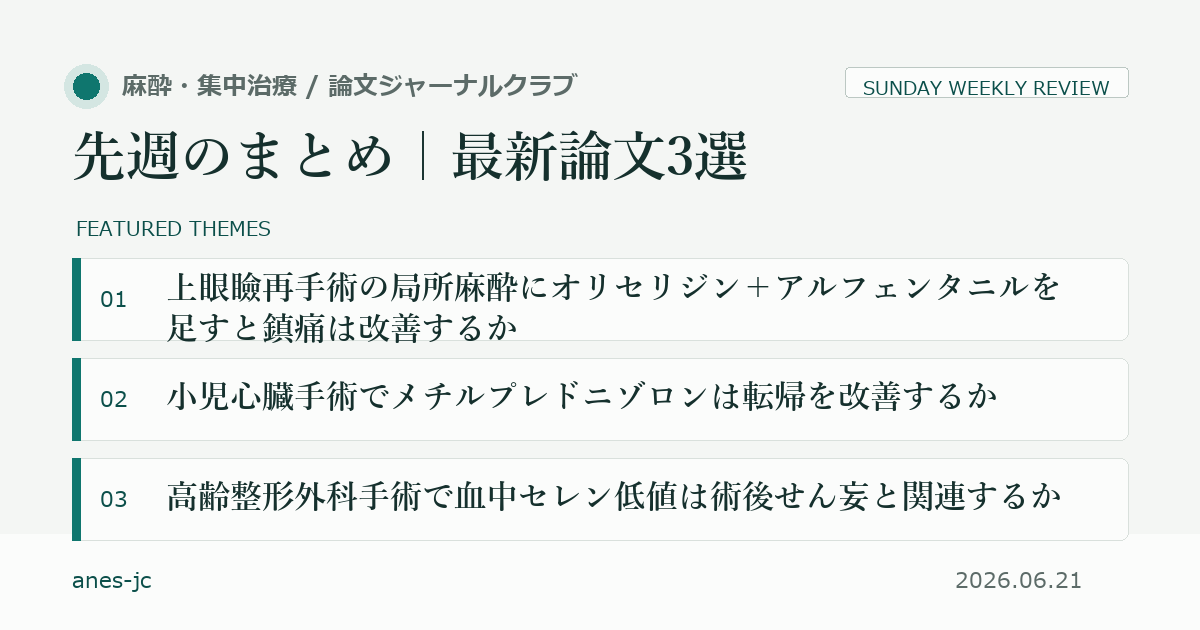
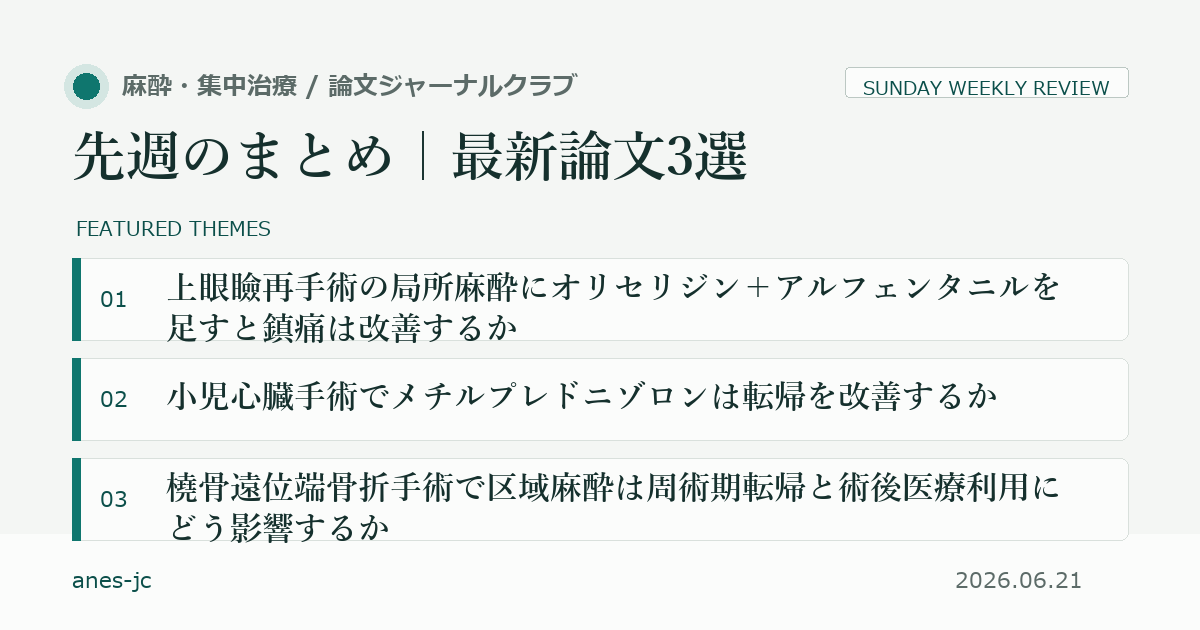
Exclude preprints from Sunday articles

Changed region(s): [[0.1233, 0.754, 0.8942, 0.8746]]

diff --git a/articles/latest-papers-2026-06-21.html b/articles/latest-papers-2026-06-21.html
@@ -49,24 +49,24 @@
 <section class="sec"><div class="sechd"><h2>最新論文3選</h2></div><article class="paper-card">
       <h2>上眼瞼再手術の局所麻酔にオリセリジン＋アルフェンタニルを足すと鎮痛は改善するか</h2>
       <p class="design">無作為化比較試験</p>
-      <p class="summary"><span>抄録の日本語要約</span>上眼瞼形成の再手術患者を対象に、多モード意識下鎮痛としてオリセリジン、アルフェンタニル、局所麻酔を組み合わせる方法の鎮痛効果と安全性を、多施設RCTで比較しています。</p>
+      <p class="summary"><span>抄録の日本語要約</span>上眼瞼形成の再手術患者を対象に、上眼瞼再手術の局所麻酔にオリセリジン＋アルフェンタニルを足すと鎮痛は改善するかを検討しています。介入群と対照群を比較し、主要アウトカムと安全性を確認する論文です。</p>
       <h3>Multimodal Conscious Analgesia with Oliceridine and Alfentanil Plus Local Anesthesia in Revisional Upper Eyelid Blepharoplasty: A Multicenter Randomized Clinical Trial.</h3>
       <p class="meta"> / 2026-06-17</p>
       <a class="source" href="https://doi.org/10.1007%2Fs00266-026-05951-8">抄録・原文を見る →</a>
     </article><article class="paper-card">
       <h2>小児心臓手術でメチルプレドニゾロンは転帰を改善するか</h2>
       <p class="design">システマティックレビュー・メタ解析</p>
-      <p class="summary"><span>抄録の日本語要約</span>小児心臓手術患者を対象に、周術期メチルプレドニゾロン投与の有効性と安全性を、無作為化試験のメタ解析で検討しています。炎症抑制の利点と合併症リスクを不確実性込みで読む論文です。</p>
+      <p class="summary"><span>抄録の日本語要約</span>小児心臓手術患者を対象に、小児心臓手術でメチルプレドニゾロンが術後転帰を改善するかを検討しています。複数研究を統合し、効果の方向性と不確実性を整理して読む論文です。</p>
       <h3>Methylprednisolone for heart surgery in pediatric patients: a meta-analysis of randomized trials. </h3>
       <p class="meta"> / 2026-06-19</p>
       <a class="source" href="https://doi.org/10.1038%2Fs41598-026-57085-1">抄録・原文を見る →</a>
     </article><article class="paper-card">
-      <h2>高齢整形外科手術で血中セレン低値は術後せん妄と関連するか</h2>
-      <p class="design">前向き研究</p>
-      <p class="summary"><span>抄録の日本語要約</span>高齢整形外科手術患者を前向きに追跡し、血中セレン濃度と術後せん妄の関連を評価しています。栄養・微量元素がせん妄リスク評価に加わるかを読む観察研究です。</p>
-      <h3>Blood selenium and postoperative delirium in elderly orthopedic surgery patients: a prospective cohort study</h3>
-      <p class="meta"> / 2026-06-19</p>
-      <a class="source" href="https://doi.org/10.21203%2Frs.3.rs-9705714%2Fv1">抄録・原文を見る →</a>
+      <h2>橈骨遠位端骨折手術で区域麻酔は周術期転帰と術後医療利用にどう影響するか</h2>
+      <p class="design">コホート研究</p>
+      <p class="summary"><span>抄録の日本語要約</span>橈骨遠位端骨折の手術患者を対象に、区域麻酔と周術期転帰・術後医療利用の関係を検討しています。実臨床データから関連の強さと限界を確認する論文です。</p>
+      <h3>Regional anesthesia for distal radius fracture repair: a multicenter retrospective cohort study of perioperative outcomes and postoperative healthcare utilization.</h3>
+      <p class="meta"> / 2026-06-15</p>
+      <a class="source" href="https://doi.org/10.1136%2Frapm-2026-107741">抄録・原文を見る →</a>
     </article></section>
 <section class="sec"><div class="sechd"><h2>このページについて</h2></div><p>このページは、週次の定点観測として毎週日曜に自動生成・自動公開しています。</p></section>
 </div><footer><div class="wrap"><p class="disc">本記事は論文情報の共有を目的としており、個別の診療判断を代替するものではありません。</p><a class="foot-x" href="https://x.com/anes_icu_jc" target="_blank" rel="noopener">Xで更新を見る</a></div></footer>